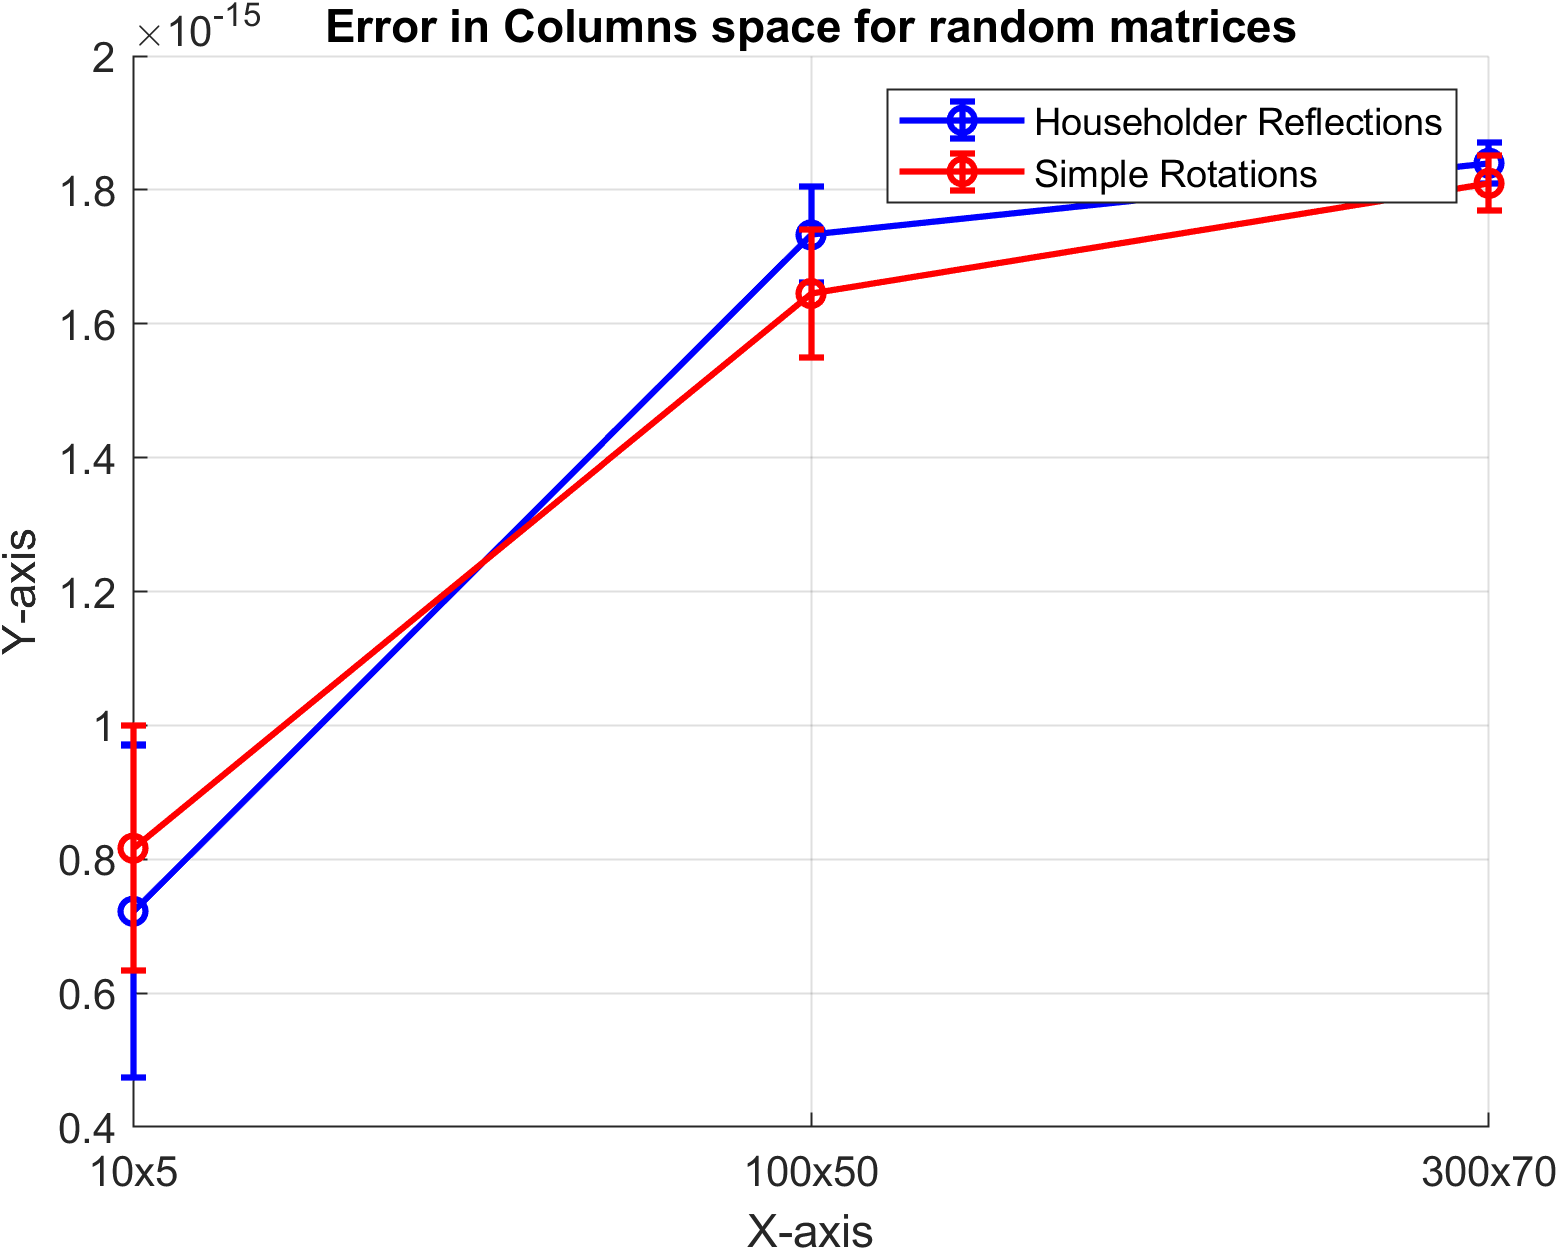
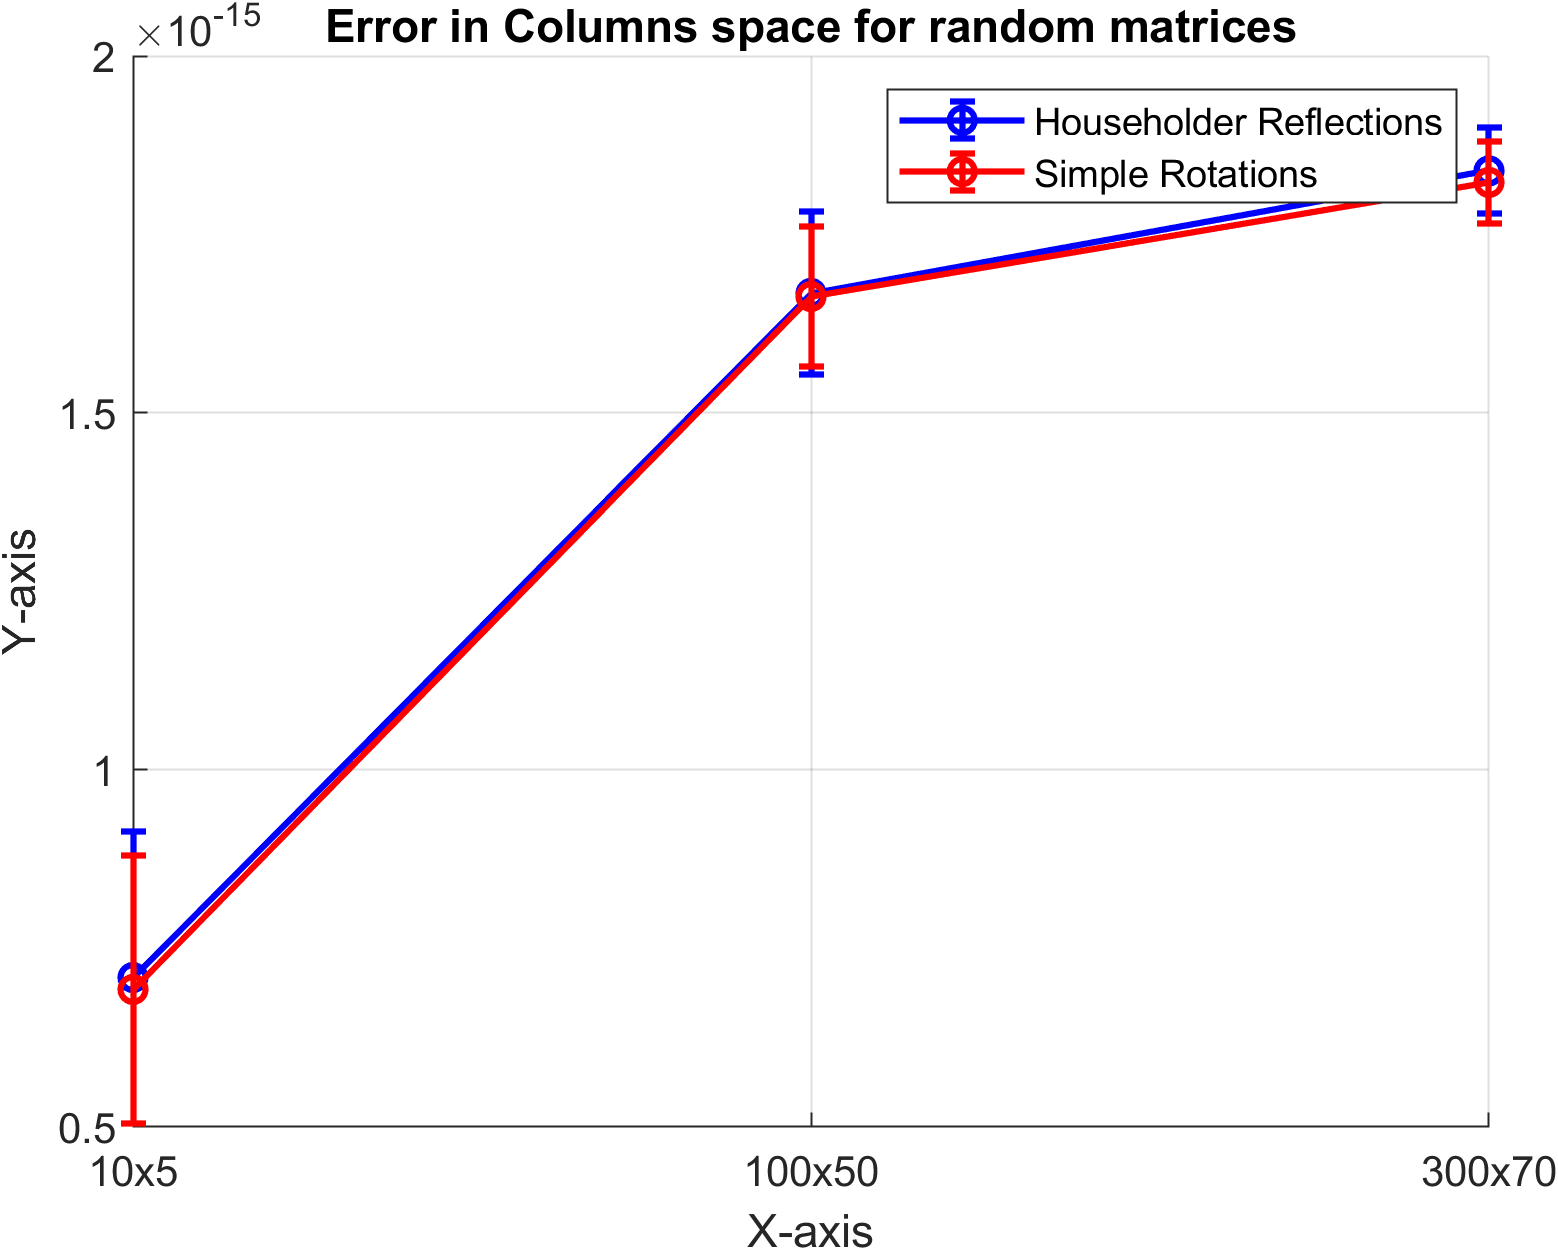
rettelittherogder

diff --git a/SimpleRotations.m b/SimpleRotations.m
@@ -7,7 +7,7 @@ numrand = size(matrixsizes,2);
 cyclematrices = {10,50,100};
 numtest = size(cyclematrices,2);
 
-numiterations = 10;
+numiterations = 100;
 
 % What tests to run: 
 % [0 0 0] are no tests
@@ -74,7 +74,7 @@ function [orth_result, col_result, proj_result] = householdervsimpleQR(matrixsiz
             if i <= numel(matrixsizes)
                  A = randn(matrixsizes{i});
             else
-                A = gallery("cycol",testmatrices{i-numel(matrixsizes)}, 3);
+                A = gallery("cycol",testmatrices{i-numel(matrixsizes)});
             end
            
                 [Q_house, R_house] = qr(A);
@@ -115,6 +115,7 @@ function [orth_result, col_result, proj_result] = householdervsimpleQR(matrixsiz
                 orth_result{i,2} = mean(orthogonal_error_simple);
                 orth_result{i,3} = var(orthogonal_error_house);
                 orth_result{i,4} = var(orthogonal_error_simple); 
+               
 
         end
         
@@ -153,9 +154,6 @@ function [Q, R] = SimpleQR(A)
 
     for i=1:M-1
         A_i = A_aug(i:end, i:end);
-        if A_i(:,1) == zeros(size(A_i(:,1)))
-            break;
-        end
         x = A_i(:,1);
 
         length = size(x,1);
